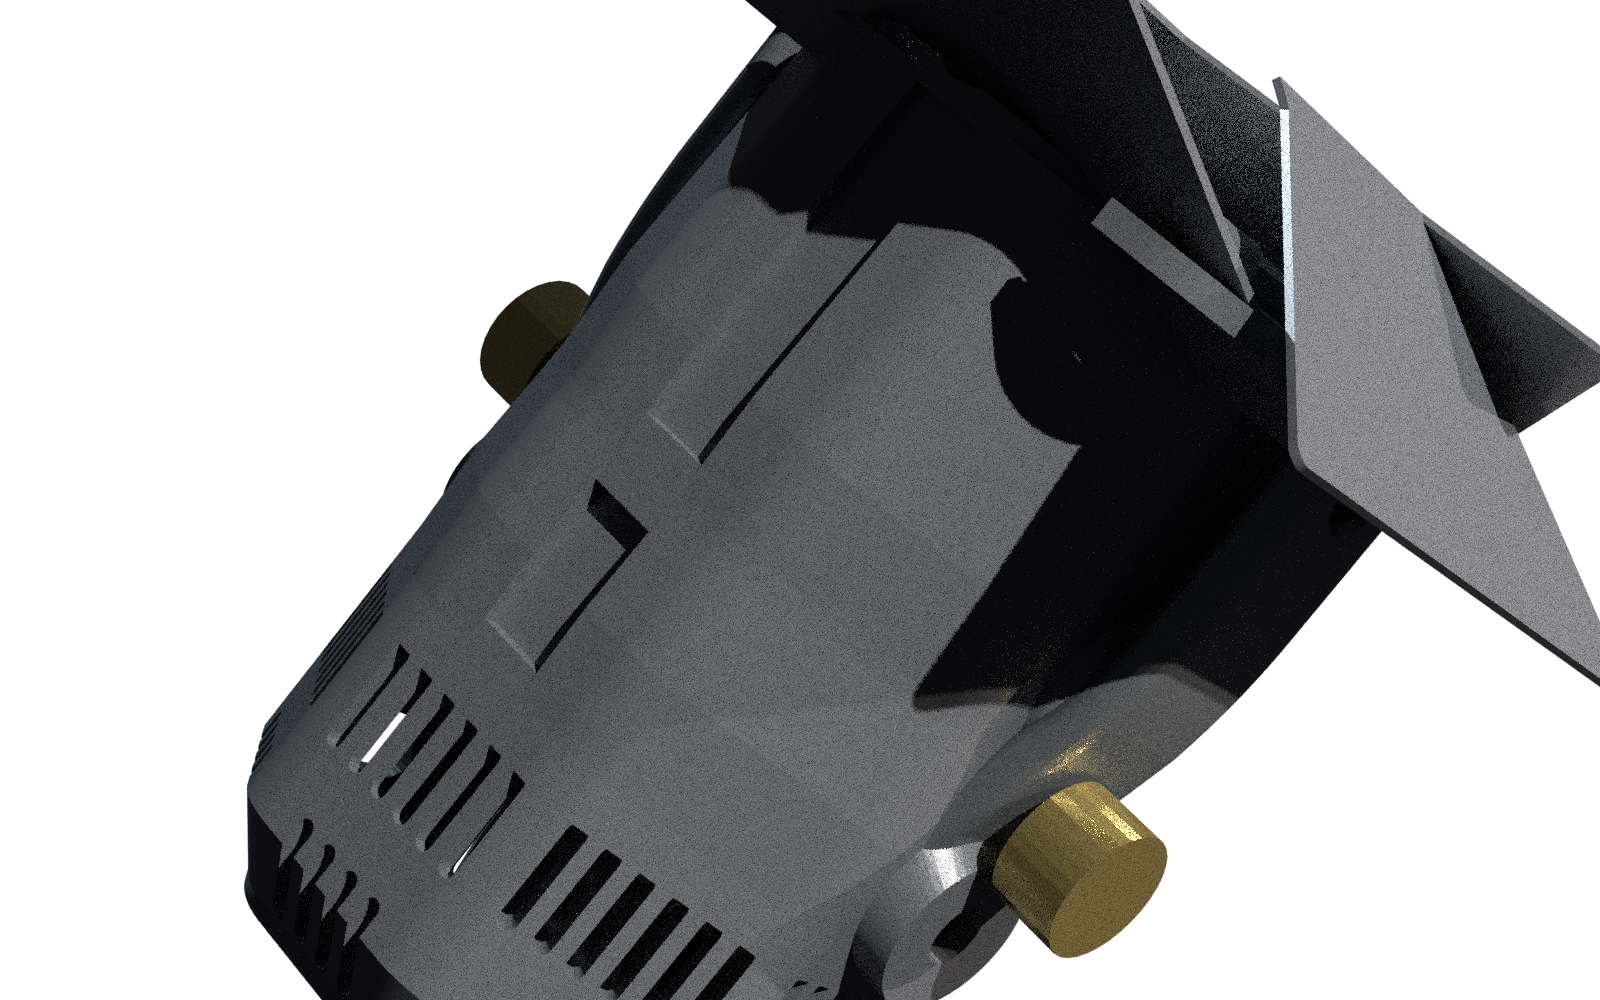
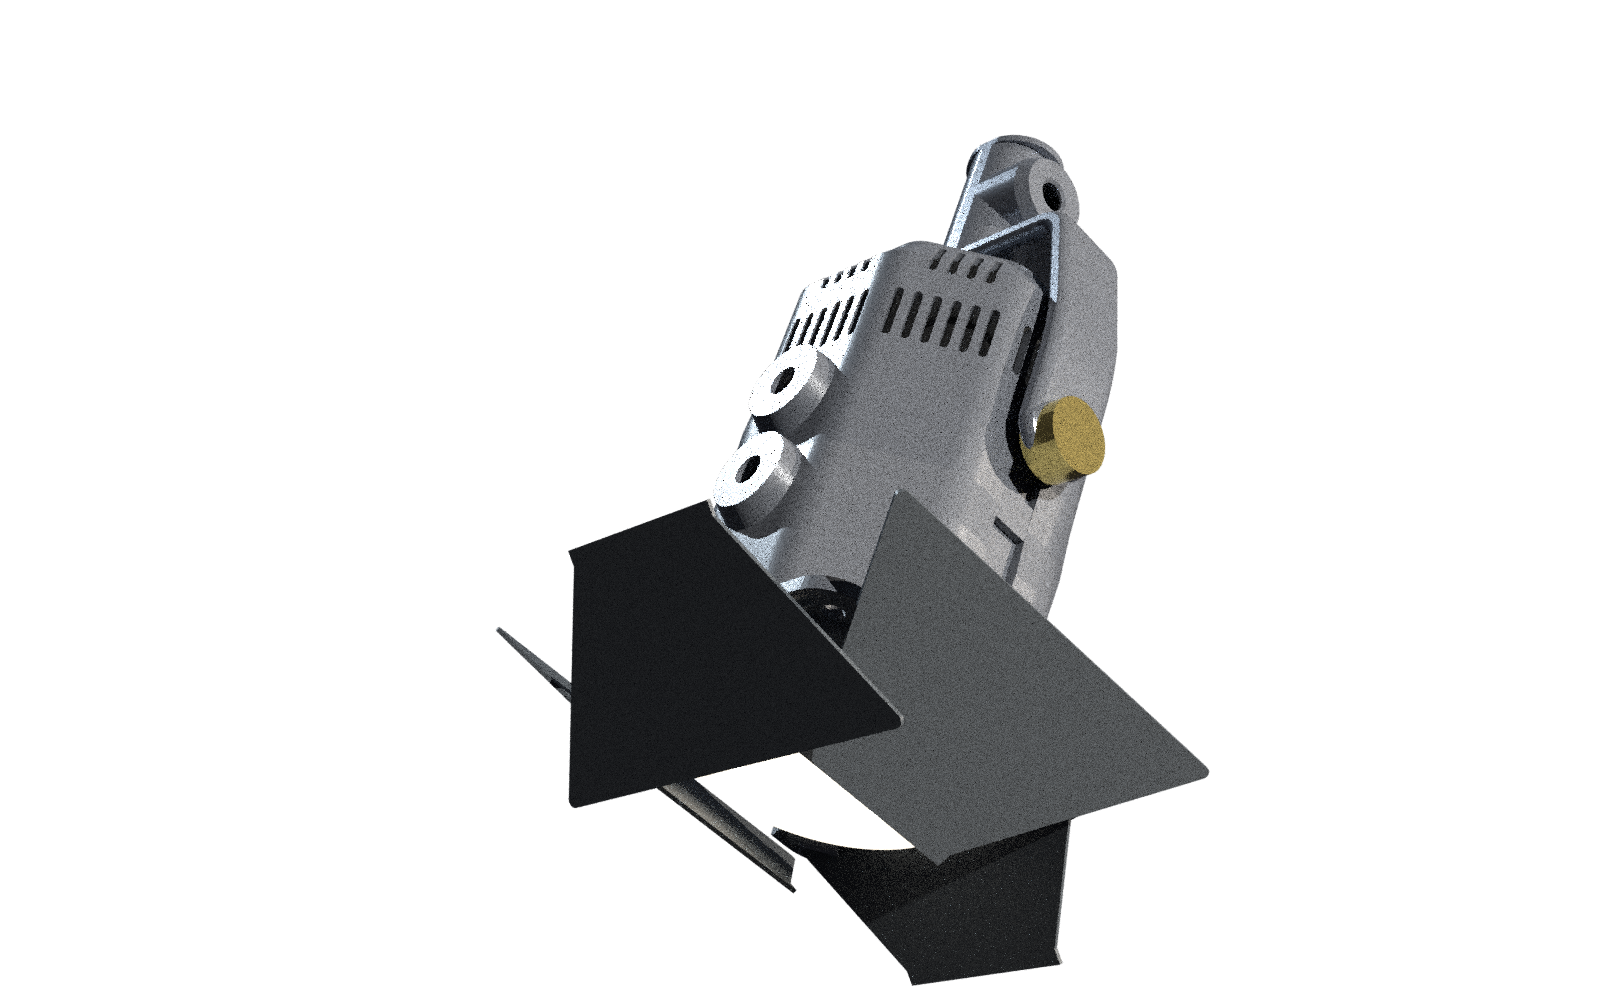
docs: add multi-spotlight stage hanging options and hero assembly renders

diff --git a/docs/README.md b/docs/README.md
@@ -1,5 +1,7 @@
 # AnymaSpots Technical Documentation
 
+*This technical documentation and 3D visual showcase were auto-generated by Gemini 3.8 Flash (High) via Antigravity, orchestrating headless Blender Cycles 3D rendering and KiCad CLI board raytracing.*
+
 Comprehensive engineering reference for the **AnymaSpots** open-source miniature stage lighting project.
 
 ---
@@ -63,10 +65,19 @@ All CAD models are designed in SketchUp ([`3d-files/anymaspot.skp`](../3d-files/
 
 <p align="center">
   <img src="renders/spotlight-assembled-hero.png" width="49%" alt="Assembled AnymaSpot Hero" />
-  <img src="renders/spotlight-stage-hanging.png" width="49%" alt="AnymaSpot Hanged from Stage Truss" />
+  <img src="renders/spotlight-stage-hanging.png" width="49%" alt="AnymaSpots Suspended from Stage Truss" />
   <br/>
-  <em>Left: Fully assembled AnymaSpot spotlight with 4-blade barndoors, sliding focus barrel, and mounting yoke.<br/>Right: Theatrical stage scenery — AnymaSpot clamped to an overhead 50mm lighting grid pipe, projecting a warm focused beam onto the stage.</em>
+  <em>Left: Fully assembled AnymaSpot spotlight with 4-blade barndoors, sliding focus barrel, knurled yoke tensioners, and mounting lyre.<br/>Right: Theatrical stage array — Multiple AnymaSpots clamped across an overhead 50mm aluminum lighting grid pipe, cross-focusing warm beams onto the stage.</em>
 </p>
+
+<details>
+<summary><strong>View Additional Multi-Fixture Rigging Configurations</strong></summary>
+
+| 5-Fixture Dramatic Fan Rig | 3-Fixture Rhythmic Bar View |
+| :---: | :---: |
+| <img src="renders/stage-hanging-option2-dramatic-stage.png" width="100%" alt="5-Spot Dramatic Fan Rig" /><br/><em>Wide fan array spanning the overhead rig for sweeping stage washes</em> | <img src="renders/stage-hanging-option3-rhythmic-bar.png" width="100%" alt="3-Spot Rhythmic Bar View" /><br/><em>Diagonal perspective detailing C-clamp mechanics and cooling louvers</em> |
+
+</details>
 
 ### Exploded Hardware Overview
 

diff --git a/README.md b/README.md
@@ -7,13 +7,15 @@
 [![MCU: ESP32--C3](https://img.shields.io/badge/MCU-ESP32--C3-orange.svg)](firmware/)
 [![Docs](https://img.shields.io/badge/Docs-Technical%20Reference-purple.svg)](docs/README.md)
 
+*This documentation, technical analysis, and 3D raytraced renders were auto-generated by Gemini 3.8 Flash (High) via Antigravity, orchestrating headless Blender Cycles 3D rendering and KiCad CLI board raytracing.*
+
 ---
 
 <p align="center">
   <img src="docs/renders/spotlight-assembled-hero.png" width="49%" alt="Assembled AnymaSpot Fixture Hero 3D Render" />
-  <img src="docs/renders/spotlight-stage-hanging.png" width="49%" alt="AnymaSpot Suspended from Theatrical Truss Pipe with Light Beam" />
+  <img src="docs/renders/spotlight-stage-hanging.png" width="49%" alt="AnymaSpots Suspended from Theatrical Truss Pipe with Light Beams" />
   <br/>
-  <em>Left: Fully assembled AnymaSpot with 4-blade barndoors, sliding focus barrel, and mounting yoke.<br/>Right: Theatrical stage setup — AnymaSpot suspended from an overhead lighting grid pipe via C-clamp, casting a warm focused beam.</em>
+  <em>Left: Fully assembled AnymaSpot with 4-blade barndoors, sliding focus barrel, knurled yoke tensioners, and mounting lyre.<br/>Right: Theatrical stage setup — Array of AnymaSpots clamped across an overhead aluminum lighting truss via C-clamps, cross-focused onto the stage.</em>
 </p>
 
 ---
